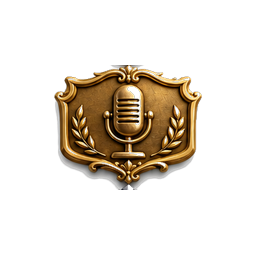
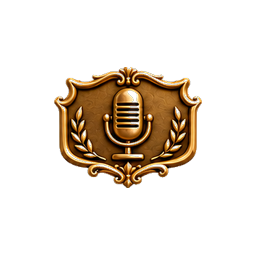
fix: slice skill-tier badges from v3 grid with clean cutouts
Prefer source-grid-v3.png in the slice script and regenerate all 20
public PNGs with per-row blob detection and vertical bleed trimming.
Shields keep full silhouettes with padding per study/40 option S3.

Changed region(s): [[0.1875, 0.25, 0.8125, 0.75]]

diff --git a/scripts/slice-skill-tier-badges.py b/scripts/slice-skill-tier-badges.py
@@ -15,6 +15,7 @@ DEFAULT_SOURCE = (
 )
 DESIGN_SOURCE = ROOT / "design/skill-tier-badges/source-grid.png"
 DESIGN_SOURCE_UPLOAD = ROOT / "design/skill-tier-badges/source-grid-upload.png"
+DESIGN_SOURCE_V3 = ROOT / "design/skill-tier-badges/source-grid-v3.png"
 DESIGN_SOURCE_V2 = ROOT / "design/skill-tier-badges/source-grid-v2.png"
 DESIGN_SOURCE_ORNATE = ROOT / "design/skill-tier-badges/source-grid-ornate.png"
 OUT_DIR = ROOT / "public/assets/skill-tier-badges"
@@ -244,6 +245,7 @@ def normalize_badge(cell: Image.Image) -> Image.Image:
 
 def pick_source() -> Path:
     for candidate in (
+        DESIGN_SOURCE_V3,
         DESIGN_SOURCE_UPLOAD,
         DESIGN_SOURCE_V2,
         DESIGN_SOURCE_ORNATE,
@@ -259,6 +261,7 @@ def main() -> None:
     source = pick_source()
     DESIGN_SOURCE.parent.mkdir(parents=True, exist_ok=True)
     v2 = source.resolve() in {
+        DESIGN_SOURCE_V3.resolve(),
         DESIGN_SOURCE_UPLOAD.resolve(),
         DESIGN_SOURCE_V2.resolve(),
     }
